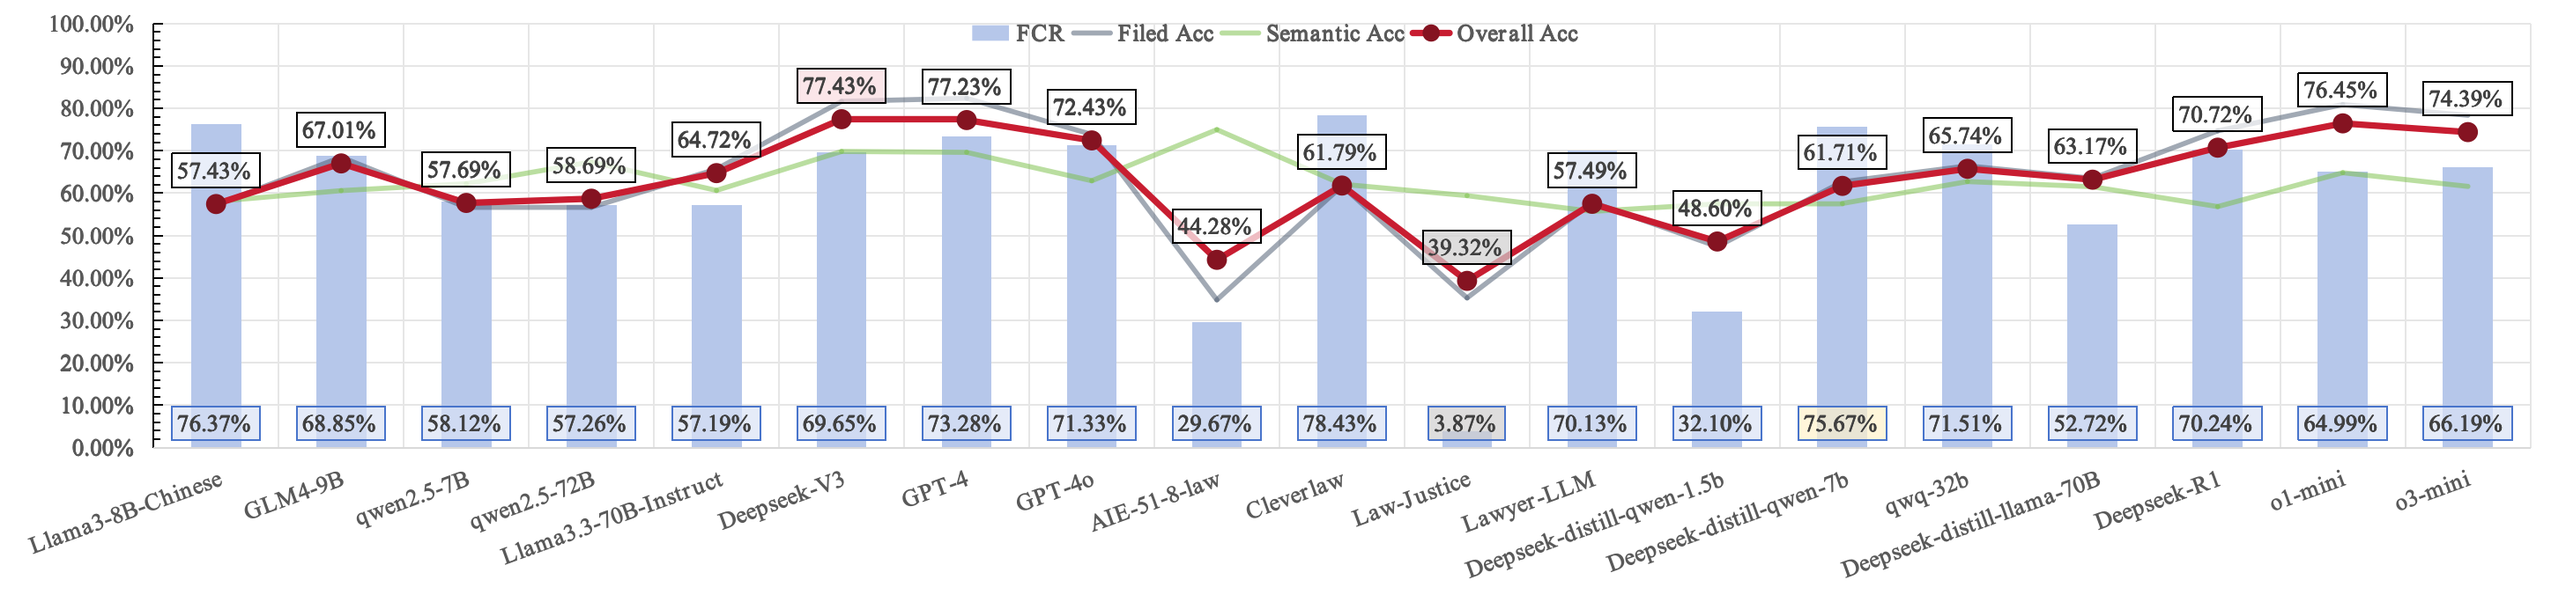
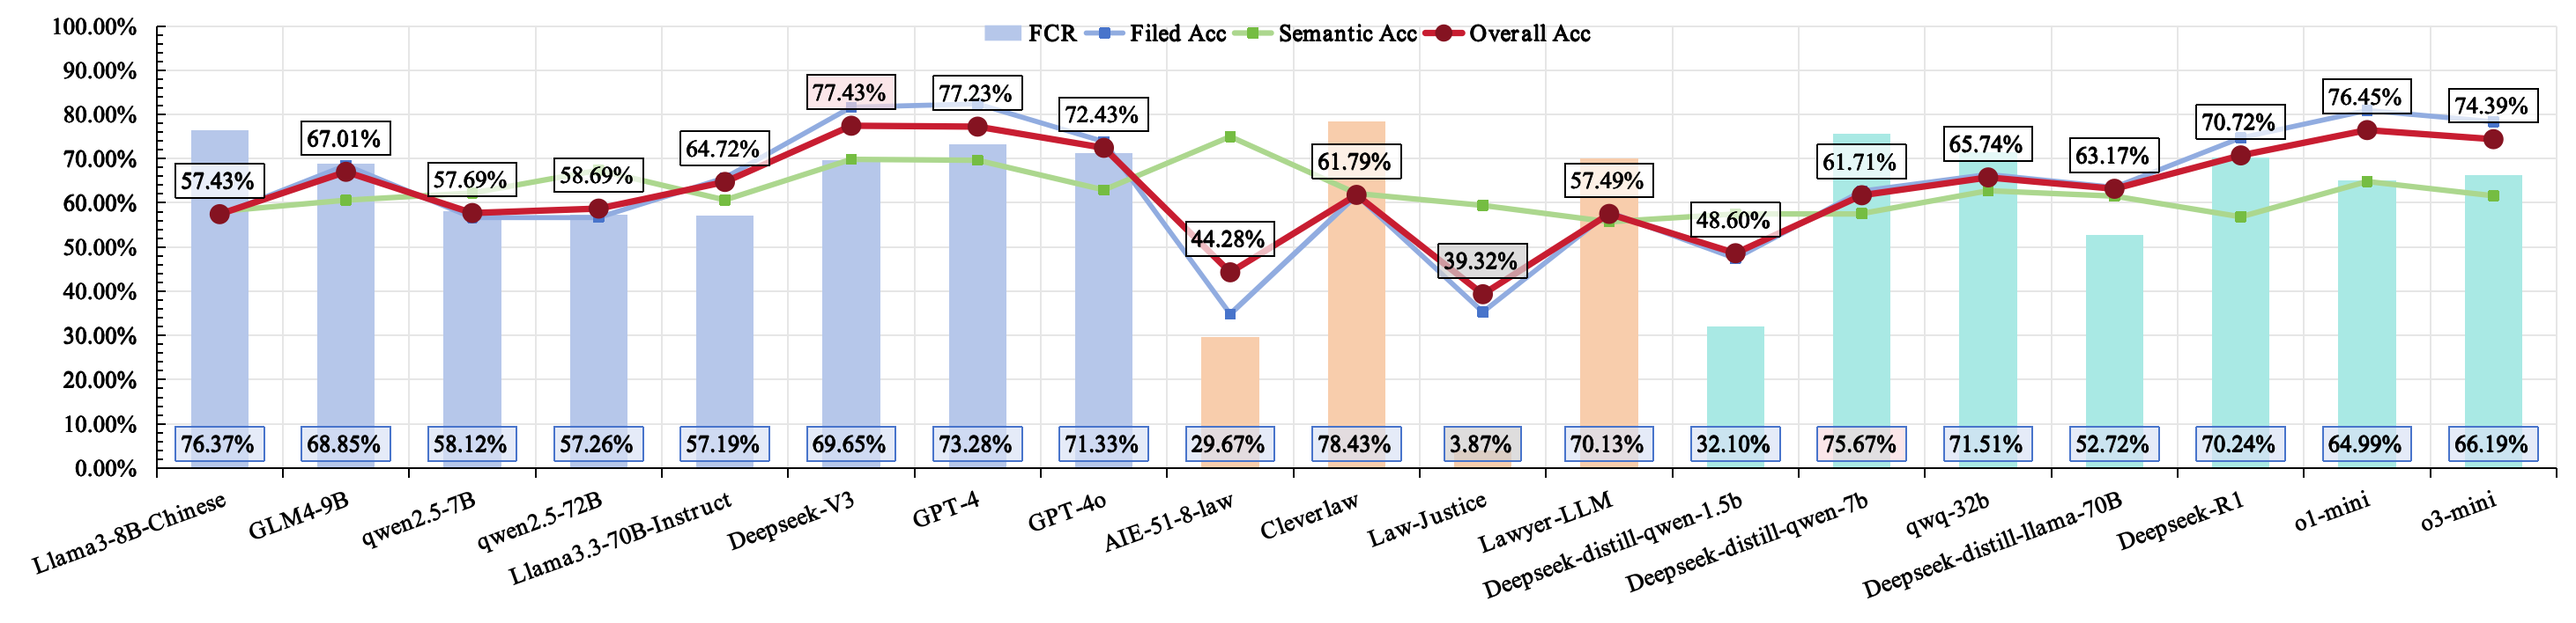
init commit

diff --git a/README_en.md b/README_en.md
@@ -1,4 +1,4 @@
-# LawDual-Bench: A Dual-Task Benchmark and Chain-of-Thought Impact Study for Legal Outcomes
+# LawDual-Bench: A Dual-Task Benchmark and Chain-of-Thought Impact Study for Legal Reasoning
 
 <div align="center">
   <img src="figs/lawdual bench.png" alt="LawDual Bench" width="60%">
@@ -65,7 +65,7 @@ This task aims to extract standardized key fields from legal case description pa
 
 📌 For detailed calculation of evaluation metrics, refer to Section 4.1 of the paper.
 
-### Task 2: Legal Reasoning & Judgment Prediction
+### Task 2: Fact-to-Judgement Reasoning
 
 This task evaluates whether a model can generate logically coherent, structurally complete legal analyses and final judgments based on case descriptions. It assesses the quality of reasoning and coverage of legal elements.
 
@@ -124,7 +124,8 @@ In addition, we provide a set of example outputs from different models under the
 
 ### Comparison of Standard Output vs. CoT Output for Each Model on Task 2 (Legal Reasoning & Judgment Prediction)
 
-![alt text](figs/task2_plot.png)
+![alt text](figs/task2_plot_relscore.png)
+![alt text](figs/task2_plot_llmscore.png)
 | Category         | Model               | Std Rel. | Std LLM | A (Std) | B (Std) | C (Std) | CoT Rel. | CoT LLM | A (CoT) | B (CoT) | C (CoT) | ΔRel. | ΔLLM  |
 |------------------|---------------------|----------|----------|---------|---------|---------|-----------|----------|---------|---------|---------|--------|--------|
 | **General LLMs** | Llama3-8B-Chinese   | 46.76%   | 29.63%   | 58      | 707     | 624     | 52.93%    | 60.37%   | 554     | 569     | 266     | 6.17%  | 30.74% |
